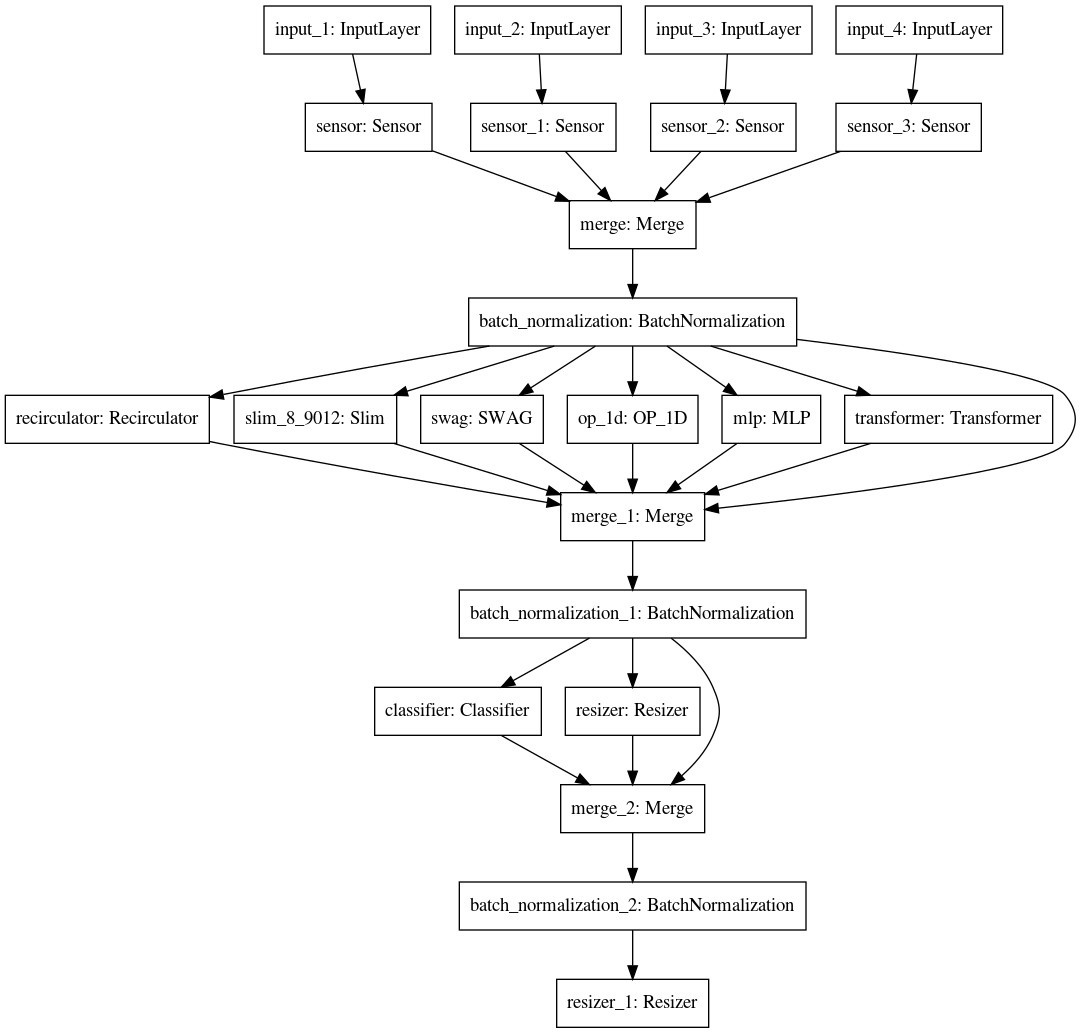
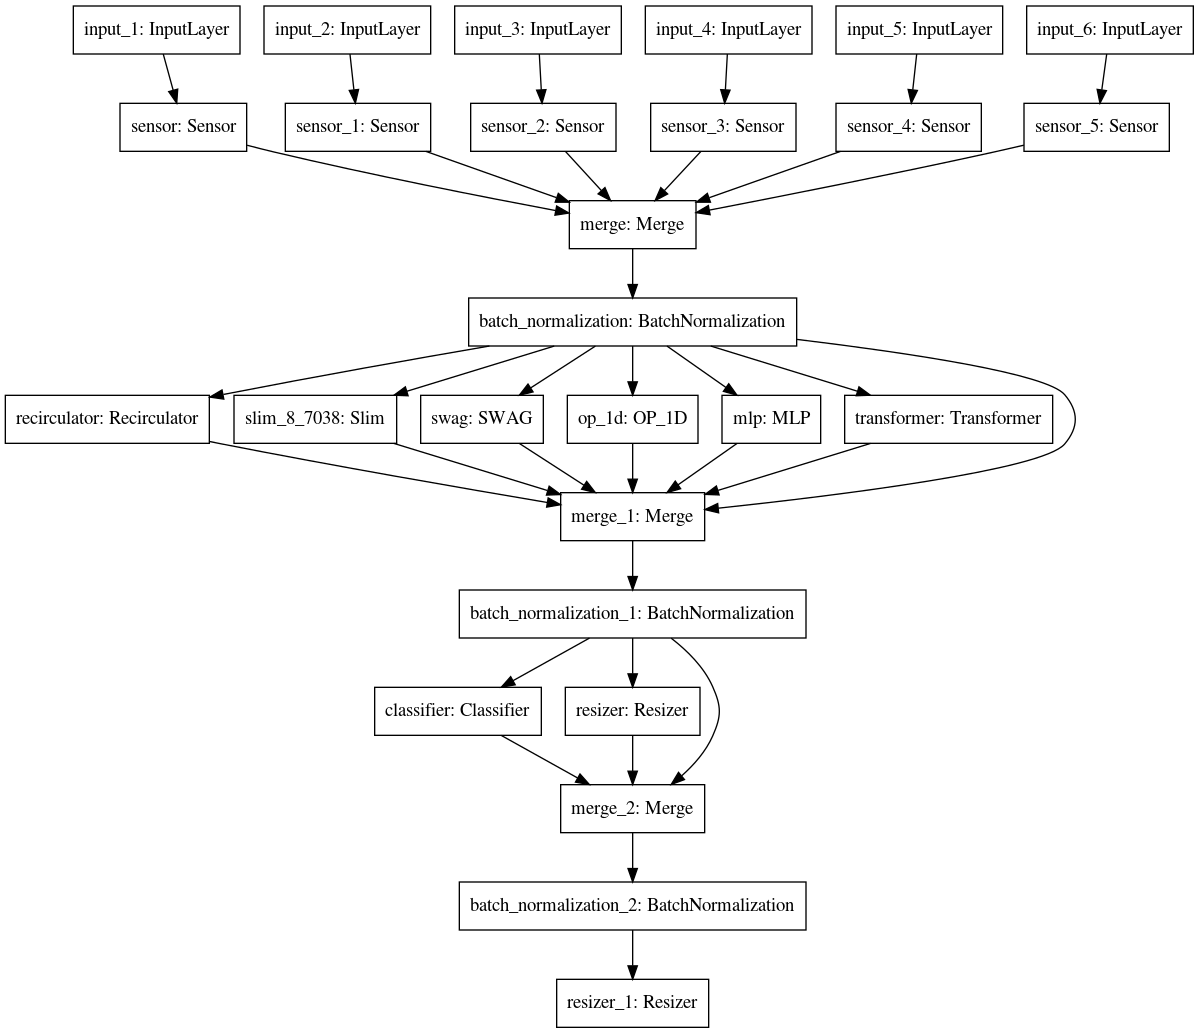
include loss predictions in output feedback

Changed region(s): [[0.0, 0.0, 1.0, 0.5266], [0.3053, 0.5576, 0.7327, 0.8984], [0.4579, 0.9293, 0.6716, 1.0]]

diff --git a/nature/agent.py b/nature/agent.py
@@ -4,19 +4,22 @@ import tensorflow as tf
 
 from tools import get_spec, get_uniform
 from nature import TaskModel, Radam
+reduce_mean = tf.math.reduce_mean
 from nurture import get_images
 
 REGRESSER_LOSS = tf.keras.losses.MeanSquaredLogarithmicError(
     reduction=tf.keras.losses.Reduction.NONE)
 CLASSIFIER_LOSS = tf.keras.losses.CategoricalCrossentropy(
     reduction=tf.keras.losses.Reduction.NONE)
+MAE = tf.keras.losses.MeanAbsoluteError(
+    reduction=tf.keras.losses.Reduction.NONE)
 TASK_PREPPERS = [get_images]
-DTYPE = tf.float32
 OPTIMIZER = Radam()
+DTYPE = tf.float32
 
 IMAGE_SHAPE = (16, 16, 1)
-CODE_SHAPE = (8, 4)
-LOSS_SHAPE = (1,)
+CODE_SHAPE = (8, 8)
+LOSS_SHAPE = (3,)
 BATCH = 5
 
 
@@ -27,7 +30,6 @@ class Agent:
         self.image_spec = get_spec(shape=IMAGE_SHAPE, format="image")
         self.code_spec = get_spec(shape=CODE_SHAPE, format="code")
         self.loss_spec = get_spec(shape=LOSS_SHAPE, format="loss")
-        self.loss_ones = tf.ones((BATCH, *LOSS_SHAPE))
         self.classifier_loss = CLASSIFIER_LOSS
         self.regresser_loss = REGRESSER_LOSS
         self.optimizer = OPTIMIZER
@@ -45,27 +47,34 @@ class Agent:
     def run_data_session(self, task):
         prior_image = get_uniform(self.image_spec.shape, batch=self.batch)
         y_pred = get_uniform(task.out_specs[0].shape, batch=self.batch)
+        prior_loss = tf.ones((BATCH, LOSS_SHAPE[0]), tf.float32)
+        value_pred = tf.ones((BATCH, LOSS_SHAPE[0]), tf.float32)
+        criticism = tf.ones((BATCH, LOSS_SHAPE[0]), tf.float32)
         model, loss = task.model, task.loss
-        prior_loss = 2.3
         for step, (image, y_true) in task.data.enumerate():
-            prior_loss = self.loss_ones * prior_loss
             with tf.GradientTape() as tape:
-                tape.watch([image, prior_image, y_pred, prior_loss])
-                outputs = model([image, prior_image, y_pred, prior_loss])
+                tape.watch([
+                    image, prior_image, y_pred,
+                    value_pred, criticism, prior_loss])
+                outputs = model([
+                    image, prior_image, y_pred,
+                    value_pred, criticism, prior_loss])
                 y_pred, value_pred, criticism = outputs
-                class_loss = loss(y_true, y_pred)
-                class_loss = tf.expand_dims(class_loss, -1)
-                value_loss = self.regresser_loss(class_loss, value_pred)
-                critic_loss = self.regresser_loss(class_loss, criticism)
+                class_loss = tf.expand_dims(loss(y_true, y_pred), -1)
+                value_loss = MAE(class_loss, value_pred)
+                critic_loss = MAE(class_loss, criticism)
                 losses = [class_loss, value_loss, critic_loss, model.losses]
             grads = tape.gradient(losses, model.trainable_variables)
             self.optimizer.apply_gradients(
                 zip(grads, model.trainable_variables))
-            value_pred = tf.math.reduce_mean(value_pred)
-            criticism = tf.math.reduce_mean(criticism)
-            prior_loss = tf.math.reduce_mean(class_loss)
-            tf.print(step, prior_loss, value_pred, criticism)
+            critic_loss = tf.expand_dims(critic_loss, -1)
+            value_loss = tf.expand_dims(value_loss, -1)
+            prior_loss = tf.concat([class_loss, value_loss, critic_loss], -1)
             prior_image = image
+            tf.print(
+                step, reduce_mean(class_loss),
+                "value:", reduce_mean(value_pred), reduce_mean(value_loss),
+                "critic:", reduce_mean(criticism), reduce_mean(critic_loss))
         return "fuck"
 
     # @tf.function

diff --git a/nature/bricks/experiments/dnc/cell.py b/nature/bricks/experiments/dnc/cell.py
@@ -15,21 +15,18 @@ Conventions:
 
 from collections import namedtuple, OrderedDict
 from tensorflow.python.util import nest
-import tensorflow_probability as tfp
 import tensorflow as tf
 
 from nature.bricks.dnc.memory import Memory, EPSILON
 
 K = tf.keras
 L = K.layers
-tfpl = tfp.layers
 
+DTYPE = tf.float32
 CONTROLLER_UNITS = 256
+NUM_READ_HEADS = 4
 MEMORY_SIZE = 256
 WORD_SIZE = 64
-NUM_READ_HEADS = 4
-TFP_LAYER = tfpl.DenseFlipout
-DTYPE = tf.float32
 
 
 class DNC_Cell(L.Layer):
@@ -65,7 +62,7 @@ class DNC_Cell(L.Layer):
         "read_modes"])
 
     def __init__(self, agent, brick_id, output_size, controller_units=CONTROLLER_UNITS, memory_size=MEMORY_SIZE,
-                 word_size=WORD_SIZE, num_read_heads=NUM_READ_HEADS, tfp_layer=TFP_LAYER, **kwargs):
+                 word_size=WORD_SIZE, num_read_heads=NUM_READ_HEADS, **kwargs):
         super().__init__(name='DNC_Cell', **kwargs)
         self.agent = agent
         self.brick_id = brick_id
@@ -80,14 +77,9 @@ class DNC_Cell(L.Layer):
         self._interface_vector_size += 5 * self.num_read_heads + 3
         self._clip = 20.0
         self._controller = L.LSTMCell(units=controller_units)
-        if tfp_layer:
-            self._controller_to_interface_dense = tfp_layer(
-                self._interface_vector_size, name='controller_to_interface')
-            self._final_output_dense = tfp_layer(self._output_size)
-        else:
-            self._controller_to_interface_dense = L.Dense(
-                self._interface_vector_size, name='controller_to_interface')
-            self._final_output_dense = L.Dense(self._output_size)
+        self._controller_to_interface_dense = L.Dense(
+            self._interface_vector_size, name='controller_to_interface')
+        self._final_output_dense = L.Dense(self._output_size)
         self._memory = Memory(memory_size, word_size, num_read_heads)
 
     def _parse_interface_vector(self, interface_vector):
@@ -126,9 +118,10 @@ class DNC_Cell(L.Layer):
         interface = self._parse_interface_vector(interface)
         # update_memory
         read_vectors, memory_state = self._memory(interface, prev_dnc_state.memory_state)
-        state = DNC_Cell.state(memory_state=memory_state,
-                          controller_state=controller_state,
-                          read_vectors=read_vectors)
+        state = DNC_Cell.state(
+            memory_state=memory_state,
+            controller_state=controller_state,
+            read_vectors=read_vectors)
         # join_outputs
         read_vectors_flat = self._flatten_read_vectors(read_vectors)
         final_output = tf.concat([controller_output, read_vectors_flat], 1)

diff --git a/nature/bricks/mlp.py b/nature/bricks/mlp.py
@@ -1,11 +1,11 @@
 import tensorflow as tf
 
-from nature import FC, Fn
+from nature import Layer, Fn
 
 K = tf.keras
 L = K.layers
 
-LAYERS, UNITS, FN = 2, 128, None
+LAYERS, UNITS, FN = 2, 8, 'mish'
 UNITS_LIST = [UNITS for _ in range(LAYERS)]
 FNS_LIST = [FN for _ in range(LAYERS)]
 
@@ -25,10 +25,13 @@ class MLP(L.Layer):
             units_list[-1] = units
         self.layers = []
         for i, units in enumerate(units_list):
-            fc = FC(units=units)
+            fc = Layer(units=units)
+            super(MLP, self).__setattr__(f'fc_{i}', fc)
             self.layers.append(fc)
             if fns_list[i]:
-                self.layers.append(Fn(fns_list[i]))
+                fn = Fn(key=fns_list[i])
+                super(MLP, self).__setattr__(f'fn_{i}', fn)
+                self.layers.append(fn)
         self.built = True
 
     @tf.function

diff --git a/nature/bricks/noisedrop.py b/nature/bricks/noisedrop.py
@@ -1,10 +1,9 @@
 import tensorflow as tf
-
 from nature import Init, L1L2
 
-ACTIVATION = None
 INITIALIZER = Init
 REGULARIZER = L1L2
+ACTIVATION = None
 STDDEV = 0.04
 P_DROP = 0.5
 UNITS = 16
@@ -18,8 +17,7 @@ def NoiseDrop(
         bias_initializer=INITIALIZER,
         activation=ACTIVATION,
         units=UNITS,
-        **kwargs
-        ):
+        **kwargs):
     return _NoiseDrop(
             units=units,
             activation=activation,
@@ -28,8 +26,8 @@ def NoiseDrop(
             bias_regularizer=bias_regularizer(),
             kernel_initializer=kernel_initializer(),
             bias_initializer=bias_initializer(dist='truncated'),
-            **kwargs
-            )
+            **kwargs)
+
 
 class _NoiseDrop(tf.keras.layers.Dense):
     def __init__(self, *args, **kwargs):

diff --git a/nurture/data.py b/nurture/data.py
@@ -31,10 +31,12 @@ def get_images(AI, key=DEFAULT_DATASET):
         return image, label
     data = data.map(unpack)
     data = data.batch(AI.batch)
-    data = data.repeat(5)
+    data = data.repeat(10)
     data = data.prefetch(tf.data.experimental.AUTOTUNE)
     out_specs = [get_spec(n=n_classes, format="onehot"), AI.loss_spec]
-    in_specs = [AI.image_spec, AI.image_spec, out_specs[0], AI.loss_spec]
+    in_specs = [
+        AI.image_spec, AI.image_spec, out_specs[0],
+        AI.loss_spec, AI.loss_spec, AI.loss_spec]
     return AttrDict(
         key=key, data=data, loss=AI.classifier_loss,
         in_specs=in_specs, out_specs=out_specs)

diff --git a/nature/bricks/merge.py b/nature/bricks/merge.py
@@ -1,18 +1,18 @@
 import tensorflow as tf
-from nature import Resizer
-from tools import log, tile_for_code
 L = tf.keras.layers
+AXIS = 1
 
 
 class Merge(L.Layer):
 
-    def __init__(self, code_shape):
+    def __init__(self, code_shape, axis=AXIS):
         super(Merge, self).__init__()
         self.code_shape = code_shape
         self.d_code = code_shape[-1]
+        self.axis = axis
 
     def build(self, shapes):
-        self.merge = L.Concatenate(1)
+        self.merge = L.Concatenate(self.axis)
         self.tiler = L.Lambda(
             lambda x: tf.tile(tf.expand_dims(x, -1), [1, 1, self.d_code]))
         self.built = True

diff --git a/nature/bricks/regresser.py b/nature/bricks/regresser.py
@@ -12,6 +12,7 @@ class Regresser(L.Layer):
         self.out_shape = out_shape
 
     def build(self, shape):
+        self.mlp = nature.MLP()
         ensemble_shape = list(self.out_shape)
         ensemble_shape.append(ENSEMBLE_SIZE)
         self.resize = nature.Resizer(self.ensemble_shape)
@@ -19,6 +20,7 @@ class Regresser(L.Layer):
 
     @tf.function
     def call(self, x):
+        x = self.mlp(x)
         x = self.resize(x)
         x = self.reduce_mean(x, axis=-1)
         return x

diff --git a/nature/bricks/activations/fn.py b/nature/bricks/activations/fn.py
@@ -11,7 +11,7 @@ B, L = K.backend, K.layers
 RRELU_MIN, RRELU_MAX = 0.123, 0.314
 HARD_MIN, HARD_MAX = -1., 1.
 SOFT_ARGMAX_BETA = 1e10
-DEFAULT = 'tanh'
+DEFAULT = 'mish'
 
 
 @tf.function

diff --git a/nature/bricks/built_in/regularize.py b/nature/bricks/built_in/regularize.py
@@ -2,7 +2,7 @@ import tensorflow as tf
 
 K, L = tf.keras, tf.keras.layers
 
-L1, L2 = 0.0001, 0.0001
+L1, L2 = 0.0000001, 0.0000001
 
 
 def L1L2(l1=L1, l2=L2):

diff --git a/nature/bricks/norm_preact.py b/nature/bricks/norm_preact.py
@@ -4,7 +4,7 @@ import nature
 L = tf.keras.layers
 NORM = nature.Norm
 CHANNELWISE = False
-DEFAULT = "tanh"
+DEFAULT = "mish"
 
 
 class NormPreact(L.Layer):

diff --git a/nature/bricks/layer.py b/nature/bricks/layer.py
@@ -1,6 +1,6 @@
 import nature
 
-LAYER_FN = nature.FC
+LAYER_FN = nature.NoiseDrop
 UNITS = 8
 
 
